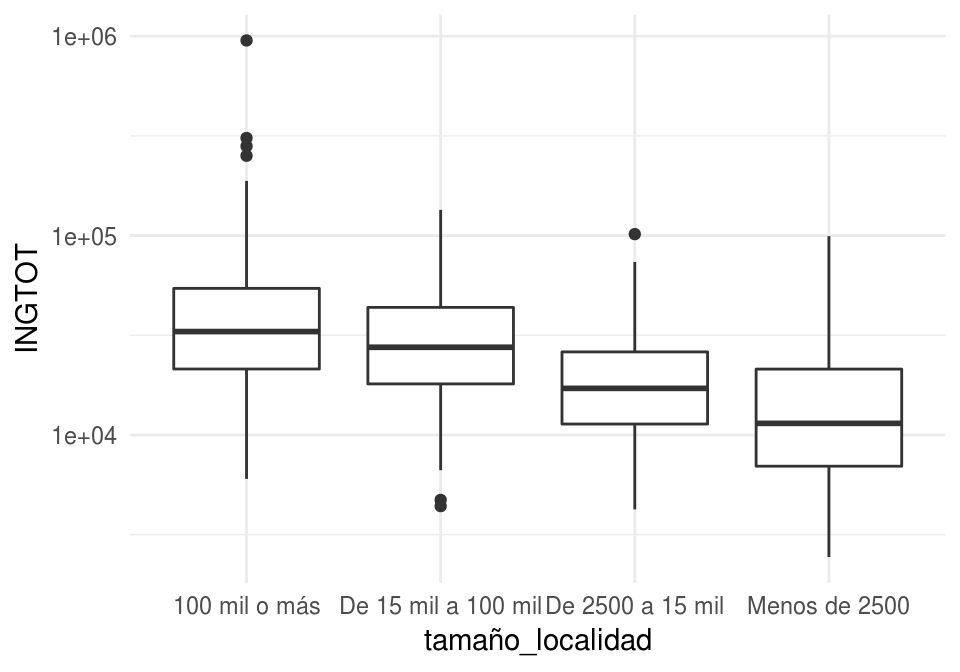
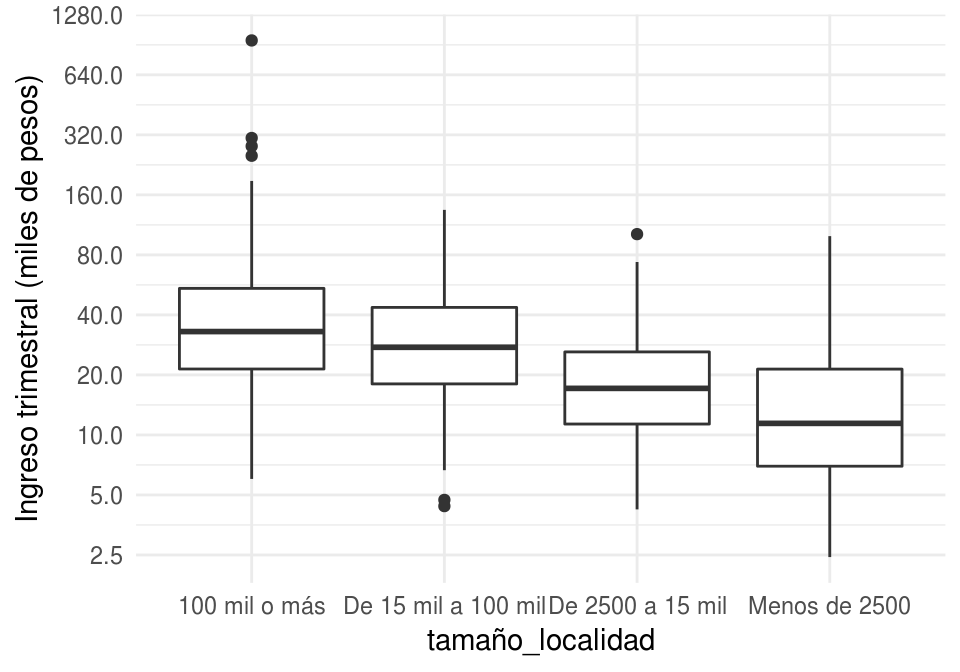
Actualizar notas

diff --git a/introduccion.html b/introduccion.html
@@ -25,7 +25,7 @@
 <meta name="author" content="Felipe González">
 
 
-<meta name="date" content="2018-08-13">
+<meta name="date" content="2018-08-14">
 
   <meta name="viewport" content="width=device-width, initial-scale=1">
   <meta name="apple-mobile-web-app-capable" content="yes">
@@ -356,21 +356,24 @@ es muy costosa en tiempo y dinero.</p>
 </tr>
 </tbody>
 </table>
-<pre class="sourceCode r"><code class="sourceCode r"><span class="kw">ggplot</span>(dat_ingreso, <span class="kw">aes</span>(<span class="dt">x=</span>INGTOT)) <span class="op">+</span><span class="st">  </span>
+<pre class="sourceCode r"><code class="sourceCode r"><span class="kw">ggplot</span>(dat_ingreso, <span class="kw">aes</span>(<span class="dt">x=</span>INGTOT<span class="op">/</span><span class="dv">1000</span>)) <span class="op">+</span><span class="st">  </span>
 <span class="st">  </span><span class="kw">geom_histogram</span>(<span class="dt">bins =</span> <span class="dv">100</span>) <span class="op">+</span><span class="st"> </span>
-<span class="st">  </span><span class="kw">scale_x_log10</span>()</code></pre>
+<span class="st">  </span><span class="kw">scale_x_log10</span>(<span class="dt">breaks =</span> <span class="kw">c</span>(<span class="fl">2.5</span>, <span class="dv">5</span>, <span class="dv">10</span>, <span class="dv">20</span>, <span class="dv">40</span>, <span class="dv">80</span>, <span class="dv">160</span>, <span class="dv">320</span>, <span class="dv">640</span>, <span class="dv">1280</span>)) <span class="op">+</span>
+<span class="st">    </span><span class="kw">xlab</span>(<span class="st">&quot;Ingreso trimestral (miles de pesos)&quot;</span>)</code></pre>
 <p><img src="01-introduccion_files/figure-html/unnamed-chunk-5-1.png" width="480" /></p>
 <p>Pero quizá podemos usar otras variables más fácilmente medibles
 para predecir el ingreso de un hogar. Por ejemplo, si consideramos el número
 de focos en la vivienda:</p>
-<pre class="sourceCode r"><code class="sourceCode r"><span class="kw">ggplot</span>(dat_ingreso, <span class="kw">aes</span>(<span class="dt">x =</span> FOCOS, <span class="dt">y =</span> INGTOT)) <span class="op">+</span><span class="st"> </span>
+<pre class="sourceCode r"><code class="sourceCode r"><span class="kw">ggplot</span>(dat_ingreso, <span class="kw">aes</span>(<span class="dt">x =</span> FOCOS, <span class="dt">y =</span> INGTOT<span class="op">/</span><span class="dv">1000</span>)) <span class="op">+</span><span class="st"> </span>
 <span class="st">  </span><span class="kw">geom_point</span>() <span class="op">+</span>
-<span class="st">  </span><span class="kw">scale_y_log10</span>() <span class="op">+</span><span class="st"> </span><span class="kw">xlim</span>(<span class="kw">c</span>(<span class="dv">0</span>,<span class="dv">50</span>))</code></pre>
+<span class="st">  </span><span class="kw">scale_y_log10</span>(<span class="dt">breaks =</span> <span class="kw">c</span>(<span class="fl">2.5</span>, <span class="dv">5</span>, <span class="dv">10</span>, <span class="dv">20</span>, <span class="dv">40</span>, <span class="dv">80</span>, <span class="dv">160</span>, <span class="dv">320</span>, <span class="dv">640</span>, <span class="dv">1280</span>)) <span class="op">+</span>
+<span class="st">    </span><span class="kw">ylab</span>(<span class="st">&quot;Ingreso trimestral (miles de pesos)&quot;</span>) <span class="op">+</span><span class="st"> </span><span class="kw">xlim</span>(<span class="kw">c</span>(<span class="dv">0</span>,<span class="dv">50</span>))</code></pre>
 <p><img src="01-introduccion_files/figure-html/unnamed-chunk-6-1.png" width="480" /></p>
 <p>O el tamaño de la localidad:</p>
-<pre class="sourceCode r"><code class="sourceCode r"><span class="kw">ggplot</span>(dat_ingreso, <span class="kw">aes</span>(<span class="dt">x =</span> tamaño_localidad, <span class="dt">y =</span> INGTOT)) <span class="op">+</span><span class="st"> </span>
+<pre class="sourceCode r"><code class="sourceCode r"><span class="kw">ggplot</span>(dat_ingreso, <span class="kw">aes</span>(<span class="dt">x =</span> tamaño_localidad, <span class="dt">y =</span> INGTOT<span class="op">/</span><span class="dv">1000</span>)) <span class="op">+</span><span class="st"> </span>
 <span class="st">  </span><span class="kw">geom_boxplot</span>() <span class="op">+</span>
-<span class="st">  </span><span class="kw">scale_y_log10</span>() </code></pre>
+<span class="st">  </span><span class="kw">scale_y_log10</span>(<span class="dt">breaks =</span> <span class="kw">c</span>(<span class="fl">2.5</span>, <span class="dv">5</span>, <span class="dv">10</span>, <span class="dv">20</span>, <span class="dv">40</span>, <span class="dv">80</span>, <span class="dv">160</span>, <span class="dv">320</span>, <span class="dv">640</span>, <span class="dv">1280</span>)) <span class="op">+</span>
+<span class="st">    </span><span class="kw">ylab</span>(<span class="st">&quot;Ingreso trimestral (miles de pesos)&quot;</span>)</code></pre>
 <p><img src="01-introduccion_files/figure-html/unnamed-chunk-7-1.png" width="480" /></p>
 <ul>
 <li>En algunas encuestas se pregunta directamente el ingreso mensual del hogar. La
@@ -792,7 +795,7 @@ datos_entrena &lt;-<span class="st"> </span><span class="kw">data.frame</span>(<
 <pre class="sourceCode r"><code class="sourceCode r">curva_<span class="dv">1</span> &lt;-<span class="st"> </span><span class="kw">geom_smooth</span>(<span class="dt">data=</span>datos_entrena,
   <span class="dt">method =</span> <span class="st">&quot;loess&quot;</span>, <span class="dt">se=</span><span class="ot">FALSE</span>, <span class="dt">color=</span><span class="st">&quot;gray&quot;</span>, <span class="dt">span=</span><span class="dv">1</span>, <span class="dt">size=</span><span class="fl">1.1</span>)
 curva_<span class="dv">2</span> &lt;-<span class="st"> </span><span class="kw">geom_smooth</span>(<span class="dt">data=</span>datos_entrena,
-  <span class="dt">method =</span> <span class="st">&quot;loess&quot;</span>, <span class="dt">se=</span><span class="ot">FALSE</span>, <span class="dt">color=</span><span class="st">&quot;red&quot;</span>, <span class="dt">span=</span><span class="fl">0.3</span>, <span class="dt">size=</span><span class="fl">1.1</span>)
+  <span class="dt">method =</span> <span class="st">&quot;loess&quot;</span>, <span class="dt">se=</span><span class="ot">FALSE</span>, <span class="dt">color=</span><span class="st">&quot;red&quot;</span>, <span class="dt">span=</span><span class="fl">0.5</span>, <span class="dt">size=</span><span class="fl">1.1</span>)
 curva_<span class="dv">3</span> &lt;-<span class="st"> </span><span class="kw">geom_smooth</span>(<span class="dt">data=</span>datos_entrena,
   <span class="dt">method =</span> <span class="st">&quot;lm&quot;</span>, <span class="dt">se=</span><span class="ot">FALSE</span>, <span class="dt">color=</span><span class="st">&quot;blue&quot;</span>, <span class="dt">size=</span><span class="fl">1.1</span>)</code></pre>
 <pre class="sourceCode r"><code class="sourceCode r"><span class="kw">ggplot</span>(datos_entrena, <span class="kw">aes</span>(<span class="dt">x=</span>x, <span class="dt">y=</span>y)) <span class="op">+</span><span class="st"> </span><span class="kw">geom_point</span>() <span class="op">+</span><span class="st"> </span>
@@ -804,7 +807,7 @@ mod_gris &lt;-<span class="st"> </span><span class="kw">loess</span>(y <span cla
 mod_recta &lt;-<span class="st"> </span><span class="kw">lm</span>(y <span class="op">~</span><span class="st"> </span>x, <span class="dt">data =</span> datos_entrena)
 df_mods &lt;-<span class="st"> </span><span class="kw">data_frame</span>(<span class="dt">nombre =</span> <span class="kw">c</span>(<span class="st">&#39;recta&#39;</span>, <span class="st">&#39;rojo&#39;</span>,<span class="st">&#39;gris&#39;</span>))
 df_mods<span class="op">$</span>modelo &lt;-<span class="st"> </span><span class="kw">list</span>(mod_recta, mod_rojo, mod_gris)</code></pre>
-<pre class="sourceCode r"><code class="sourceCode r">error_f &lt;-<span class="st"> </span><span class="cf">function</span>(df){
+<pre class="sourceCode r"><code class="sourceCode r">error_f &lt;-<span class="st"> </span><span class="cf">function</span>(df, mod){
   <span class="cf">function</span>(mod){
     preds &lt;-<span class="st"> </span><span class="kw">predict</span>(mod, <span class="dt">newdata =</span> df)
     <span class="kw">round</span>(<span class="kw">sqrt</span>(<span class="kw">mean</span>((preds <span class="op">-</span><span class="st"> </span>df<span class="op">$</span>y) <span class="op">^</span><span class="st"> </span><span class="dv">2</span>)))

diff --git a/index.html b/index.html
@@ -25,7 +25,7 @@
 <meta name="author" content="Felipe González">
 
 
-<meta name="date" content="2018-08-13">
+<meta name="date" content="2018-08-14">
 
   <meta name="viewport" content="width=device-width, initial-scale=1">
   <meta name="apple-mobile-web-app-capable" content="yes">
@@ -174,7 +174,7 @@ code span.wa { color: #60a0b0; font-weight: bold; font-style: italic; } /* Warni
 <div id="header">
 <h1 class="title">Aprendizaje de máquina</h1>
 <p class="author"><em>Felipe González</em></p>
-<p class="date"><em>2018-08-13</em></p>
+<p class="date"><em>2018-08-14</em></p>
 </div>
 <div id="temario-y-referencias" class="section level1 unnumbered">
 <h1>Temario y referencias</h1>

diff --git a/01-introduccion.md b/01-introduccion.md
@@ -165,9 +165,10 @@ head(dat_ingreso) %>%
 
 
 ```r
-ggplot(dat_ingreso, aes(x=INGTOT)) +  
+ggplot(dat_ingreso, aes(x=INGTOT/1000)) +  
   geom_histogram(bins = 100) + 
-  scale_x_log10()
+  scale_x_log10(breaks = c(2.5, 5, 10, 20, 40, 80, 160, 320, 640, 1280)) +
+    xlab("Ingreso trimestral (miles de pesos)")
 ```
 
 <img src="01-introduccion_files/figure-html/unnamed-chunk-5-1.png" width="480" />
@@ -178,9 +179,10 @@ de focos en la vivienda:
 
 
 ```r
-ggplot(dat_ingreso, aes(x = FOCOS, y = INGTOT)) + 
+ggplot(dat_ingreso, aes(x = FOCOS, y = INGTOT/1000)) + 
   geom_point() +
-  scale_y_log10() + xlim(c(0,50))
+  scale_y_log10(breaks = c(2.5, 5, 10, 20, 40, 80, 160, 320, 640, 1280)) +
+    ylab("Ingreso trimestral (miles de pesos)") + xlim(c(0,50))
 ```
 
 <img src="01-introduccion_files/figure-html/unnamed-chunk-6-1.png" width="480" />
@@ -188,9 +190,10 @@ ggplot(dat_ingreso, aes(x = FOCOS, y = INGTOT)) +
 O el tamaño de la localidad:
 
 ```r
-ggplot(dat_ingreso, aes(x = tamaño_localidad, y = INGTOT)) + 
+ggplot(dat_ingreso, aes(x = tamaño_localidad, y = INGTOT/1000)) + 
   geom_boxplot() +
-  scale_y_log10() 
+  scale_y_log10(breaks = c(2.5, 5, 10, 20, 40, 80, 160, 320, 640, 1280)) +
+    ylab("Ingreso trimestral (miles de pesos)")
 ```
 
 <img src="01-introduccion_files/figure-html/unnamed-chunk-7-1.png" width="480" />
@@ -765,7 +768,7 @@ head(datos_entrena)
 curva_1 <- geom_smooth(data=datos_entrena,
   method = "loess", se=FALSE, color="gray", span=1, size=1.1)
 curva_2 <- geom_smooth(data=datos_entrena,
-  method = "loess", se=FALSE, color="red", span=0.3, size=1.1)
+  method = "loess", se=FALSE, color="red", span=0.5, size=1.1)
 curva_3 <- geom_smooth(data=datos_entrena,
   method = "lm", se=FALSE, color="blue", size=1.1)
 ```
@@ -792,7 +795,7 @@ df_mods$modelo <- list(mod_recta, mod_rojo, mod_gris)
 
 
 ```r
-error_f <- function(df){
+error_f <- function(df, mod){
   function(mod){
     preds <- predict(mod, newdata = df)
     round(sqrt(mean((preds - df$y) ^ 2)))

diff --git a/index.md b/index.md
@@ -1,7 +1,7 @@
 --- 
 title: "Aprendizaje de máquina"
 author: "Felipe González"
-date: "2018-08-13"
+date: "2018-08-14"
 site: bookdown::bookdown_site
 output: bookdown::gitbook
 bibliography: [book.bib]
